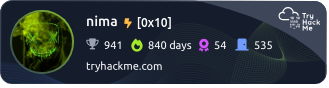
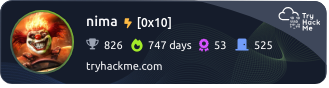
Update site from _site

diff --git a/about.html b/about.html
@@ -151,7 +151,7 @@
     <p>In the PortSwigger’s Web Security Academy Hall of Fame (Top 50, <a href="https://web.archive.org/web/20240121103136/https://portswigger.net/web-security/hall-of-fame">Jan 2024: Ranked #13</a>,<a href="https://web.archive.org/web/20240810053949/https://portswigger.net/web-security/hall-of-fame">Aug 2024: Ranked #5</a>).</p>
   </li>
   <li>
-    <p>In the top 1000 of <a href="https://tryhackme.com/p/nima">TryHackMe</a>(<a href="/assets/nima.png">2025</a>).</p>
+    <p>In the top 1000 of <a href="https://tryhackme.com/p/nima">TryHackMe</a>(<a href="/assets/nima.png">Sep 2025</a>).</p>
   </li>
   <li>
     <p>Currently learning German as my fourth language.</p>
@@ -162,13 +162,13 @@
   <li>
     <p>Years of experience in Bodybuilding, Nutrition and Human Anatomy.</p>
   </li>
-  <li>
-    <p>Still a lot more to learn and experience…</p>
-  </li>
 </ul>
 
+<p><br />
+Still a lot more to learn and experience…</p>
+
 <p><br /></p>
-<h3 id="certifications-that-im-interested-in">Certifications (that I’m interested in)</h3>
+<h3 id="certifications-that-im-interested-in-to-get">Certifications (that I’m interested in to get)</h3>
 <hr />
 
 <ul>

diff --git a/README.md b/README.md
@@ -21,7 +21,7 @@ Personal cybersecurity & growth website + open-source CyberShark Jekyll theme wi
 <!-- Maintenance / Versions / Quick Demo -->
 <p align="center">
   <!-- ⚠️ This badge is auto-updated by update-badges.js. Do NOT manually edit the date! -->
-  <a href="#"><img src="https://img.shields.io/badge/Last_Updated-2026--06--03-lightgrey?logo=github&logoColor=white" alt="Last Updated"></a>
+  <a href="#"><img src="https://img.shields.io/badge/Last_Updated-2026--06--04-lightgrey?logo=github&logoColor=white" alt="Last Updated"></a>
   <a href="https://nima.ninja"><img src="https://img.shields.io/badge/Quick_Demo-Live%20Site-00bfff?logo=firefox&logoColor=white" alt="Quick Demo / Live Site"></a>
   <br>
   <!-- Dependencies -->